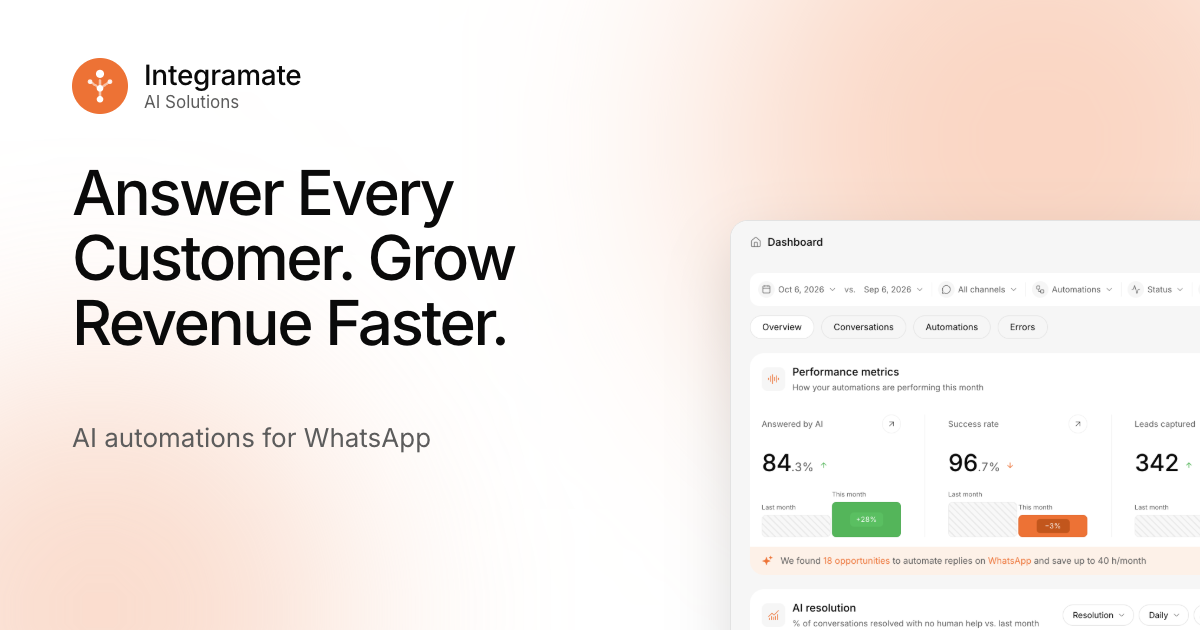
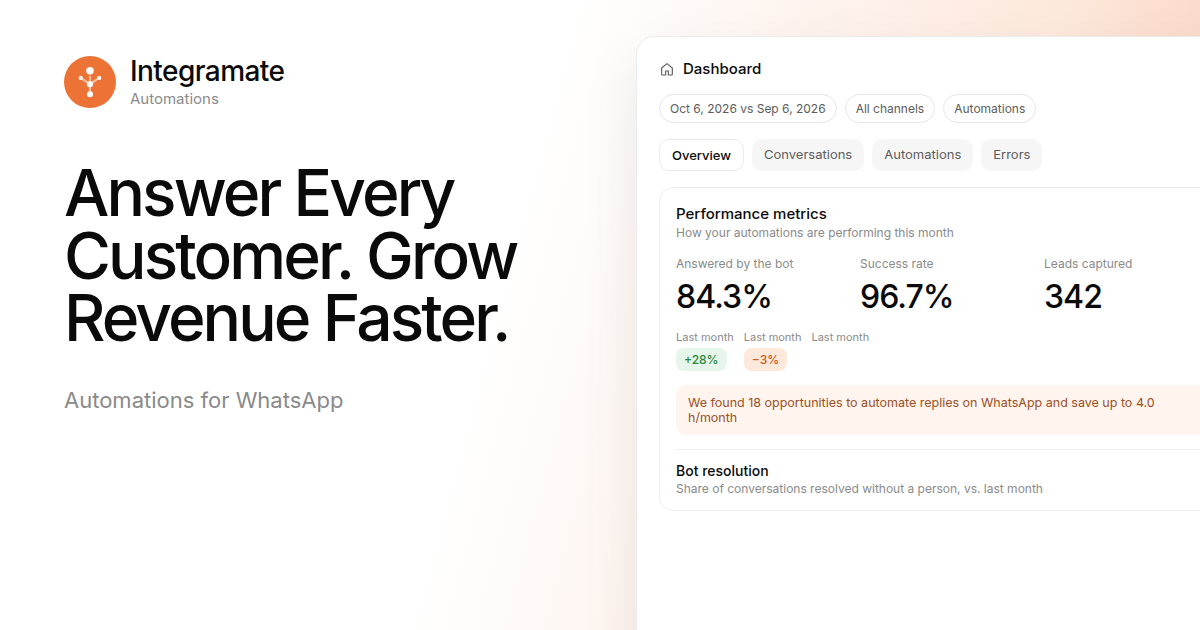
feat: update pricing to the marketing copy (#10)
* feat: update pricing to the marketing copy

Show the approved plan prices, chat limits and team sizes in Spanish and English, with the currency after the number.

* feat: show the peso headline only in Argentina

Add the automation limits on each plan and drop the placeholder WhatsApp link from the footer.

* feat: show the peso headline only in Argentina

Add the automation limits on each plan and drop the placeholder WhatsApp link from the footer.

* feat: match the English plan buttons and switch Spanish to voseo

Use one chat line on the English plans, say "Try it free for 7 days", update the chat definition, and drop the placeholder social links.

* feat: point the hero trial button at signup

The main hero button is now the 7-day trial and opens /signup, with the no-card line under it.

* feat: count one chat per customer each month

Replace the chat FAQ with the confirmed definition and drop IA from the visible copy.

* feat: redraw the social images without IA

Regenerate the Open Graph images with the current landing copy.

* feat: pause the bot only for new chats at the cap

Use the confirmed limit answer and drop "with one click".

* feat: match the chat FAQs to the live definition

A chat is one bot reply in the month. At the cap, only new conversations pause, and extra blocks cost 9.900 ARS or 7 USD.

diff --git a/src/i18n/es.ts b/src/i18n/es.ts
@@ -3,9 +3,9 @@ import type { Dictionary } from './en';
 
 export const es: Dictionary = {
   meta: {
-    title: 'Integramate · Automatizaciones con IA para WhatsApp',
+    title: 'Integramate · Automatizaciones para WhatsApp',
     description:
-      'Activa automatizaciones con IA para WhatsApp, atiende a tus clientes las 24 horas y mira los resultados en un panel simple.',
+      'Activá automatizaciones para WhatsApp, atendé a tus clientes las 24 horas y mirá los resultados en un panel simple.',
   },
   nav: {
     label: 'Principal',
@@ -19,57 +19,60 @@ export const es: Dictionary = {
     menu: 'Menú',
   },
   hero: {
-    badge: 'La mejor forma de usar IA en WhatsApp',
-    titleLine1: 'Atiende a Cada Cliente. Crece',
+    badge: 'La mejor forma de automatizar WhatsApp',
+    titleLine1: 'Atendé a Cada Cliente. Crecé',
     titleLine2: 'Más Rápido.',
-    text: 'Integramate es la forma simple y potente de ejecutar automatizaciones con IA en WhatsApp: responde, capta clientes potenciales y hace seguimiento las 24 horas, para que tu equipo venda mejor y gane más sin el caos.',
+    text: 'Integramate es la forma simple y potente de ejecutar automatizaciones en WhatsApp: responde, capta clientes potenciales y hace seguimiento las 24 horas, para que tu equipo venda mejor y gane más sin el caos.',
     emailLabel: 'Email de trabajo',
-    emailPlaceholder: 'Ingresa tu email de trabajo',
+    emailPlaceholder: 'Ingresá tu email de trabajo',
     submit: 'Solicitar acceso',
+    trial: 'Probalo gratis 7 días',
+    trialNote: 'Sin tarjeta. Cancelá cuando quieras.',
+    secondary: 'Mostrame cómo respondería mi WhatsApp',
     states: {
       sending: 'Enviando…',
       sent: '¡Gracias! Te respondemos en menos de un día.',
-      invalid_payload: 'Revisa el email e inténtalo de nuevo.',
-      captcha_failed: 'No pudimos confirmar que eres una persona. Inténtalo de nuevo.',
-      over_request_rate_limit: 'Demasiados intentos. Prueba otra vez en un minuto.',
-      error: 'Algo salió mal. Inténtalo de nuevo en un momento.',
+      invalid_payload: 'Revisá el email e intentalo de nuevo.',
+      captcha_failed: 'No pudimos confirmar que sos una persona. Intentalo de nuevo.',
+      over_request_rate_limit: 'Demasiados intentos. Probá otra vez en un minuto.',
+      error: 'Algo salió mal. Intentalo de nuevo en un momento.',
     },
   },
   visuals: {
     chat: {
       contact: 'Laura',
       status: 'en línea',
-      placeholder: 'Escribe un mensaje',
+      placeholder: 'Escribí un mensaje',
       messages: [
         { fromCustomer: true, text: '¡Hola! ¿Abren los sábados?', time: '10:41' },
-        { fromCustomer: false, text: 'Sí, de 9 a 14 h. ¿Quieres reservar un turno?', time: '10:41' },
+        { fromCustomer: false, text: 'Sí, de 9 a 14 h. ¿Querés reservar un turno?', time: '10:41' },
         { fromCustomer: true, text: 'Sí, a las 10 por favor.', time: '10:42' },
         { fromCustomer: false, text: '¡Listo! Te reservé el sábado a las 10.', time: '10:42' },
       ],
     },
   },
   screens: {
-    dashboard: 'El panel de Integramate: métricas de rendimiento, resolución por IA durante el mes y las mejores automatizaciones',
+    dashboard: 'El panel de Integramate: métricas de rendimiento, resolución del bot durante el mes y las mejores automatizaciones',
     appShell: 'La app de Integramate, con su navegación y el panel abierto',
-    metrics: 'Métricas de rendimiento: 84,3 % respondido por IA, 96,7 % de éxito, 342 contactos captados y 253 horas ahorradas este mes',
+    metrics: 'Métricas de rendimiento: 84,3 % respondido por el bot, 96,7 % de éxito, 342 contactos captados y 253 horas ahorradas este mes',
     automations: 'Mejores automatizaciones por tasa de éxito: respuestas frecuentes, reserva de turnos, calificación de contactos, recordatorios de pago y bienvenida',
     executions: 'La lista de ejecuciones: cada corrida de una automatización, la más reciente primero, con su resultado',
     inbox: 'Una conversación de WhatsApp en la bandeja compartida, respondida por el bot y lista para contestar',
   },
   features: {
     eyebrow: 'Funciones',
-    title: 'Automatiza Mejor y Haz Crecer Tu Negocio',
-    subtitle: 'Todo lo que necesitas para hablar con tus clientes y cerrar ventas más rápido.',
+    title: 'Automatizá Mejor y Hacé Crecer Tu Negocio',
+    subtitle: 'Todo lo que necesitás para hablar con tus clientes y cerrar ventas más rápido.',
     items: [
       {
         visual: 'automations',
         title: 'Automatizaciones listas para usar',
-        text: 'Elige un paquete, como atención al cliente o un asistente interno, responde unas preguntas y actívalo.',
+        text: 'Elegí un paquete, como atención al cliente o un asistente interno, respondé unas preguntas y activalo.',
       },
       {
         visual: 'metrics',
         title: 'Resultados que se entienden',
-        text: 'Mira conversaciones atendidas, contactos captados y horas ahorradas, sin abrir una sola pantalla técnica.',
+        text: 'Mirá conversaciones atendidas, contactos captados y horas ahorradas, sin abrir una sola pantalla técnica.',
       },
       {
         visual: 'chat',
@@ -85,37 +88,60 @@ export const es: Dictionary = {
   },
   pricing: {
     eyebrow: 'Planes y precios',
-    title: 'Elige el Plan Que Se Adapta a Tu Negocio',
-    subtitle: 'Cada plan define cuántas automatizaciones puedes tener activas, cuántos chats atienden por mes y cuántas personas entran.',
+    title: 'Precios claros. Sin letra chica.',
+    titleArs: 'Precios en pesos. Sin dólar y sin letra chica.',
+    subtitle: 'Probá cualquier plan 7 días. Sin tarjeta.',
     includes: 'Incluye:',
     perMonth: '/ mes',
+    extra: {
+      before: '¿Necesitás más chats? Sumá 500 chats extra por ',
+      usd: '7 USD',
+      ars: '9.900 ARS',
+      after:
+        '. Te avisamos al llegar al 80% y al 100% del límite, y vos elegís si sumás un bloque. Nunca se cobra sin aviso.',
+    },
+    meta: 'Los mensajes de WhatsApp los cobra Meta directo a tu tarjeta, a su tarifa oficial. Integramate no les suma nada.',
+    cancel: 'Cancelá cuando quieras. Seguís usando el servicio hasta el fin del mes que pagaste.',
     plans: [
       {
         name: 'Starter',
-        description: 'Para equipos pequeños que automatizan sus primeras conversaciones.',
-        usd: 'US$ 15',
-        ars: 'ARS 21.900',
-        cta: 'Hablemos',
+        usd: '15 USD',
+        ars: '21.900 ARS',
+        custom: null,
+        cta: 'Probalo gratis 7 días',
         featured: false,
-        features: ['3 automatizaciones activas', '300 chats de WhatsApp por mes', '2 personas', 'Bandeja compartida y panel de resultados', 'Soporte por email'],
+        badge: null,
+        features: ['1.000 chats atendidos por mes', '2 integrantes del equipo', '3 automatizaciones'],
       },
       {
         name: 'Pro',
-        description: 'Para negocios en crecimiento que viven en WhatsApp.',
-        usd: 'US$ 29',
-        ars: 'ARS 44.900',
-        cta: 'Empezar',
+        usd: '29 USD',
+        ars: '44.900 ARS',
+        custom: null,
+        cta: 'Probalo gratis 7 días',
         featured: true,
-        features: ['10 automatizaciones activas', '1.000 chats de WhatsApp por mes', '10 personas con roles', 'Bandeja compartida y panel de resultados', 'Soporte prioritario'],
+        badge: 'Más elegido',
+        features: ['3.000 chats atendidos por mes', '10 integrantes del equipo', '10 automatizaciones'],
       },
       {
         name: 'Business',
-        description: 'Para empresas que necesitan más automatizaciones y más control.',
-        usd: 'US$ 65',
-        ars: 'ARS 99.900',
-        cta: 'Hablemos',
+        usd: '65 USD',
+        ars: '99.900 ARS',
+        custom: null,
+        cta: 'Probalo gratis 7 días',
         featured: false,
-        features: ['25 automatizaciones activas', '5.000 chats de WhatsApp por mes', '25 personas con roles', 'Bandeja compartida y panel de resultados', 'Onboarding dedicado'],
+        badge: null,
+        features: ['10.000 chats atendidos por mes', '25 integrantes del equipo', '25 automatizaciones'],
+      },
+      {
+        name: 'Enterprise',
+        usd: '',
+        ars: '',
+        custom: 'A medida',
+        cta: 'Agendá una llamada',
+        featured: false,
+        badge: null,
+        features: ['Configuración, límites y soporte a medida.'],
       },
     ],
   },
@@ -124,14 +150,14 @@ export const es: Dictionary = {
     title: 'Las Ventajas Para Tu Equipo',
     subtitle: 'Integramate es más que un chatbot: es un sistema completo para responder más rápido y vender más.',
     items: [
-      { icon: 'chart', title: 'Mejores resultados', text: 'Resuelve más conversaciones sin hacer crecer el equipo.' },
-      { icon: 'clock', title: 'Más tiempo libre', text: 'Deja que las automatizaciones atiendan las preguntas repetitivas, de día y de noche.' },
+      { icon: 'chart', title: 'Mejores resultados', text: 'Resolvé más conversaciones sin hacer crecer el equipo.' },
+      { icon: 'clock', title: 'Más tiempo libre', text: 'Dejá que las automatizaciones atiendan las preguntas repetitivas, de día y de noche.' },
       { icon: 'heart', title: 'Clientes más contentos', text: 'Respuestas rápidas y consistentes en el canal que ya usan.' },
     ],
   },
   channels: {
     eyebrow: 'Canales',
-    title: 'Encuentra a Tus Clientes Donde Están',
+    title: 'Encontrá a Tus Clientes Donde Están',
     subtitle: 'WhatsApp está activo hoy. Vienen más canales.',
     live: 'Activo',
     soon: 'Próximamente',
@@ -154,7 +180,7 @@ export const es: Dictionary = {
     items: [
       {
         q: '¿Necesito conocimientos técnicos?',
-        a: 'No. Eliges un paquete, respondes unas preguntas simples sobre tu negocio y lo activas.',
+        a: 'No. Elegís un paquete, respondés unas preguntas simples sobre tu negocio y lo activás.',
       },
       {
         q: '¿Qué canales están disponibles?',
@@ -166,21 +192,38 @@ export const es: Dictionary = {
       },
       {
         q: '¿Cómo obtengo acceso?',
-        a: 'Regístrate con tu email en el formulario y te enviamos el acceso.',
+        a: 'Registrate con tu email en el formulario y te enviamos el acceso.',
       },
       {
-        q: '¿Cómo funcionan los planes?',
-        a: 'Cada plan define cuántas automatizaciones puedes tener activas a la vez. Cuéntanos sobre tu negocio y te recomendamos uno.',
+        q: '¿Pago dos veces?',
+        a: 'No. Meta cobra los mensajes que envía WhatsApp: los primeros 1.000 por mes y por número son gratis y después paga tu empresa a Meta, directo en su plataforma. Integramate cobra la plataforma y los chats que atiende tu bot. Son dos cosas distintas y no hay recargo nuestro.',
+      },
+      {
+        q: '¿Qué es un chat?',
+        a: 'Una conversación en la que tu bot respondió al menos una vez durante el mes. Si ese cliente vuelve a escribir en el mismo mes, no suma otro chat. No cuentan los mensajes que responde una persona del equipo, los de teléfono ni las conversaciones donde el bot no respondió.',
+      },
+      {
+        q: '¿Qué pasa si llego al límite de chats?',
+        a: 'Te avisamos al 80% y al 100%. Si llegás al tope, el bot sigue atendiendo las conversaciones que ya contó este mes y se pausa solo para las nuevas: esas las atiende una persona, hasta el mes siguiente. También podés sumar bloques de 500 chats por 9.900 ARS (7 USD fuera de Argentina).',
+      },
+      {
+        q: '¿Puedo cambiar de plan?',
+        a: 'Sí, cuando quieras. Si te quedás corto, subir de plan conviene más que comprar bloques de chats extra.',
+      },
+      {
+        q: '¿Puedo cancelar?',
+        a: 'Sí. Cancelás cuando quieras y seguís usando el servicio hasta el fin del mes que pagaste. No hay reembolsos parciales.',
       },
     ],
   },
   cta: {
-    title: 'Construye Relaciones Más Sólidas Con Tus Clientes',
-    text: 'Súmate a los negocios que atienden a cada cliente, a cualquier hora, sin el caos.',
+    title: 'Construí Relaciones Más Sólidas Con Tus Clientes',
+    text: 'Sumate a los negocios que atienden a cada cliente, a cualquier hora, sin el caos.',
     button: 'Solicitar acceso',
   },
   footer: {
-    tagline: 'Automatizaciones con IA para negocios que viven en WhatsApp.',
+    brand: 'Automatizaciones',
+    tagline: 'Automatizaciones para negocios que viven en WhatsApp.',
     columns: [
       {
         title: 'Producto',

diff --git a/src/i18n/en.ts b/src/i18n/en.ts
@@ -2,9 +2,9 @@ import { APP_URL } from '@/config';
 
 export const en = {
   meta: {
-    title: 'Integramate · AI automations for WhatsApp',
+    title: 'Integramate · Automations for WhatsApp',
     description:
-      'Activate ready-made AI automations for WhatsApp, answer customers around the clock and see the results in one simple dashboard.',
+      'Activate ready-made automations for WhatsApp, answer customers around the clock and see the results in one simple dashboard.',
   },
   nav: {
     label: 'Main',
@@ -18,13 +18,16 @@ export const en = {
     menu: 'Menu',
   },
   hero: {
-    badge: 'Best way to run AI on WhatsApp',
+    badge: 'Best way to automate WhatsApp',
     titleLine1: 'Answer Every Customer. Grow',
     titleLine2: 'Revenue Faster.',
-    text: 'Integramate is the simple, powerful way to run AI automations on WhatsApp: it replies, captures leads and follows up around the clock, so your team sells smarter and wins more without the chaos.',
+    text: 'Integramate is the simple, powerful way to run automations on WhatsApp: it replies, captures leads and follows up around the clock, so your team sells smarter and wins more without the chaos.',
     emailLabel: 'Work email',
     emailPlaceholder: 'Enter your work email',
     submit: 'Request access',
+    trial: 'Try it free for 7 days',
+    trialNote: 'No card needed. Cancel anytime.',
+    secondary: 'Show me how it would answer my WhatsApp',
     states: {
       sending: 'Sending…',
       sent: 'Thanks! We will get back to you within a day.',
@@ -48,9 +51,9 @@ export const en = {
     },
   },
   screens: {
-    dashboard: 'The Integramate dashboard: performance metrics, AI resolution over the month and the top automations',
+    dashboard: 'The Integramate dashboard: performance metrics, bot resolution over the month and the top automations',
     appShell: 'The Integramate app, with its navigation and the dashboard open',
-    metrics: 'Performance metrics: 84.3% answered by AI, 96.7% success rate, 342 leads captured and 253 hours saved this month',
+    metrics: 'Performance metrics: 84.3% answered by the bot, 96.7% success rate, 342 leads captured and 253 hours saved this month',
     automations: 'Top automations ranked by success: frequent answers, appointment booking, lead qualification, payment reminders and customer welcome',
     executions: 'The executions list: every run of an automation, newest first, with its result',
     inbox: 'A WhatsApp conversation in the shared inbox, answered by the bot and open for a reply',
@@ -84,37 +87,60 @@ export const en = {
   },
   pricing: {
     eyebrow: 'Pricing plans',
-    title: 'Select the Plan That Fits Your Needs',
-    subtitle: 'Each plan sets how many automations you can run at once, how many chats they handle a month and how many people join.',
+    title: 'Clear pricing. No hidden fees.',
+    titleArs: null as string | null,
+    subtitle: 'Try any plan for 7 days. No card needed.',
     includes: 'Includes:',
     perMonth: '/ month',
+    extra: {
+      before: 'Need more chats? Add 500 extra chats for ',
+      usd: '7 USD',
+      ars: '9.900 ARS',
+      after:
+        '. We warn you at 80% and 100% of your limit, and you choose whether to add a block. We never charge without notice.',
+    },
+    meta: 'WhatsApp messages are billed by Meta directly to your card at its official rate. Integramate adds nothing on top.',
+    cancel: 'Cancel anytime. You keep using the service until the end of the month you paid for.',
     plans: [
       {
         name: 'Starter',
-        description: 'For small teams automating their first conversations.',
-        usd: 'USD 15',
-        ars: 'ARS 21,900',
-        cta: 'Talk to us',
+        usd: '15 USD',
+        ars: '21.900 ARS',
+        custom: null,
+        cta: 'Try it free for 7 days',
         featured: false,
-        features: ['3 active automations', '300 WhatsApp chats a month', '2 people', 'Shared inbox and results dashboard', 'Email support'],
+        badge: null,
+        features: ['1,000 chats per month', '2 team members', '3 automations'],
       },
       {
         name: 'Pro',
-        description: 'For growing businesses that live on WhatsApp.',
-        usd: 'USD 29',
-        ars: 'ARS 44,900',
-        cta: 'Get started',
+        usd: '29 USD',
+        ars: '44.900 ARS',
+        custom: null,
+        cta: 'Try it free for 7 days',
         featured: true,
-        features: ['10 active automations', '1,000 WhatsApp chats a month', '10 people with roles', 'Shared inbox and results dashboard', 'Priority support'],
+        badge: 'Most popular',
+        features: ['3,000 chats per month', '10 team members', '10 automations'],
       },
       {
         name: 'Business',
-        description: 'For companies that need more automations and more control.',
-        usd: 'USD 65',
-        ars: 'ARS 99,900',
-        cta: 'Talk to us',
+        usd: '65 USD',
+        ars: '99.900 ARS',
+        custom: null,
+        cta: 'Try it free for 7 days',
         featured: false,
-        features: ['25 active automations', '5,000 WhatsApp chats a month', '25 people with roles', 'Shared inbox and results dashboard', 'Dedicated onboarding'],
+        badge: null,
+        features: ['10,000 chats per month', '25 team members', '25 automations'],
+      },
+      {
+        name: 'Enterprise',
+        usd: '',
+        ars: '',
+        custom: 'Custom',
+        cta: 'Book a call',
+        featured: false,
+        badge: null,
+        features: ['Custom setup, limits and support.'],
       },
     ],
   },
@@ -168,8 +194,24 @@ export const en = {
         a: 'Sign up with your email in the form above and we will send you your access.',
       },
       {
-        q: 'How do plans work?',
-        a: 'Each plan sets how many automations you can run at once. Tell us about your business and we will recommend one.',
+        q: 'Am I paying twice?',
+        a: 'No. Meta bills the messages WhatsApp sends: the first 1,000 per month per number are free, and after that your company pays Meta directly. Integramate charges for the platform and the chats your bot handles. They are two different things and we add no markup.',
+      },
+      {
+        q: 'What is a chat?',
+        a: "A conversation your bot replied to at least once during the month. If that customer writes again in the same month, it doesn't count as another chat. Replies from someone on your team, phone messages, and conversations the bot never replied to do not count.",
+      },
+      {
+        q: 'What happens if I reach the chat limit?',
+        a: 'We warn you at 80% and at 100%. If you reach the cap, the bot keeps handling the conversations it already counted this month and pauses only for new ones. A person handles those until next month. You can also add blocks of 500 chats for 9.900 ARS (7 USD outside Argentina).',
+      },
+      {
+        q: 'Can I change plans?',
+        a: 'Yes, whenever you want. If you run short, moving up a plan is a better deal than buying extra chat blocks.',
+      },
+      {
+        q: 'Can I cancel?',
+        a: 'Yes. You can cancel whenever you want and you keep using the service until the end of the month you paid for. There are no partial refunds.',
       },
     ],
   },
@@ -179,7 +221,8 @@ export const en = {
     button: 'Request access',
   },
   footer: {
-    tagline: 'AI automations for businesses that live on WhatsApp.',
+    brand: 'Automations',
+    tagline: 'Automations for businesses that live on WhatsApp.',
     columns: [
       {
         title: 'Product',
